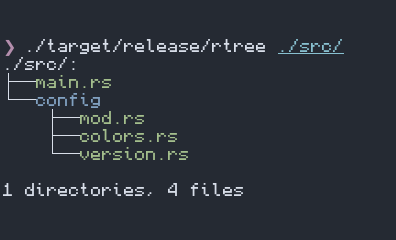
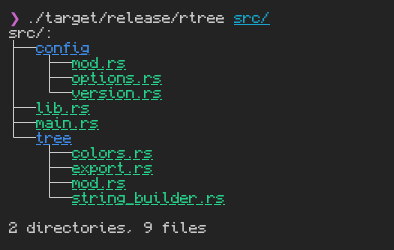
fix: update rtree image

diff --git a/css/style.css b/css/style.css
@@ -13,9 +13,9 @@
 body {
     background: radial-gradient(circle at center,
             var(--dark-gray),
-            var(--primary-color) 40%,
-            var(--secondary-color) 45%,
-            var(--dark-gray) 65%) fixed;
+            var(--primary-color) 25%,
+            var(--secondary-color) 30%,
+            var(--dark-gray) 50%) fixed;
     margin: 0 2rem;
     font-family: raster;
     color: var(--primary-color);